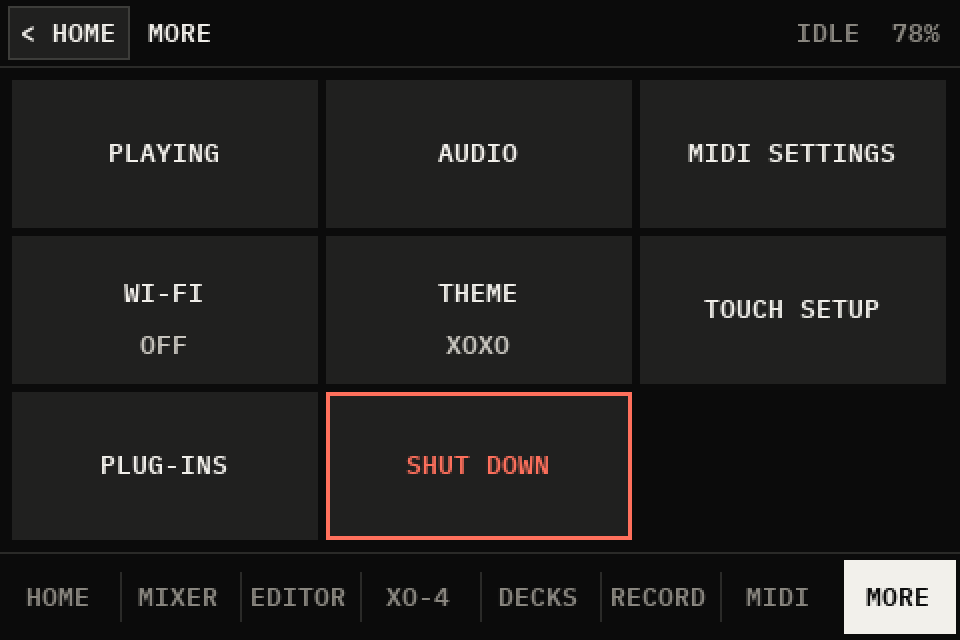
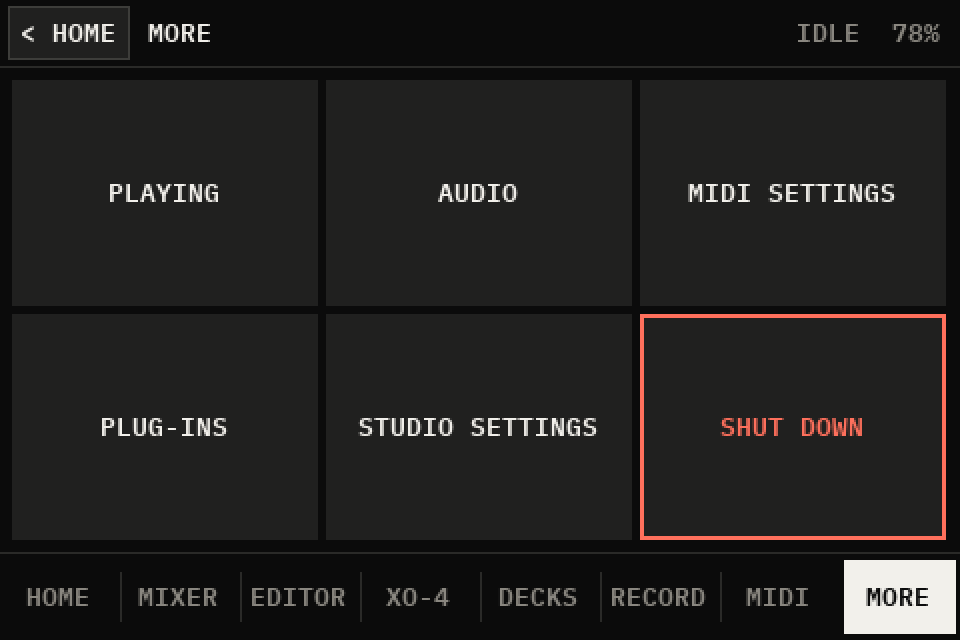
The Studio's MORE: STUDIO SETTINGS holds Wi-Fi, the theme, the touch setup and ABOUT
- deskui.py: MORE is PLAYING, AUDIO, MIDI SETTINGS, PLUG-INS, STUDIO SETTINGS
  and SHUT DOWN; STUDIO SETTINGS (a page of its own, two tiles a row) holds
  WI-FI, THEME, TOUCH SETUP and ABOUT. THEME and ABOUT go back to it.
  MORE's tiles drawn by one draw_tiles for both pages.
- deskabout.py: ABOUT's back to STUDIO SETTINGS.
- tests/test_desk.py: the theme reached through STUDIO SETTINGS, its back
  buttons; ABOUT opened from it.
- tools/studio_screens.py, docs/images: MORE redrawn, STUDIO SETTINGS added.
  (The README's words for it come in the next commit.)

Credits and licences: nothing new; XOXO Studio stays GPL-3.0.

Tested: on XOXOStudio (Pi 3 B+), 2026-11-03: STUDIO SETTINGS used on the
Studio's screen, its tiles and back buttons (Pat's report). PC: test_desk
55/55.

Not tested: TOUCH SETUP run through from its new place on the Studio.

diff --git a/fm1-bt-bridge/deskui.py b/fm1-bt-bridge/deskui.py
@@ -38,13 +38,14 @@ TABS = ("HOME", "MIX", "EDITOR", "XO4", "DECKS", "REC", "MIDI", "MORE")
 TAB_LABEL = {"MIX": "MIXER", "XO4": "XO-4", "REC": "RECORD"}   # what a tab says, if not its name
 FULL_TABS = ("EDITOR", "XO4", "DECKS", "REC", "PLUGIN")    # screens of their own: no tab bar under them (< HOME, top left)
 METER_TABS = ("METER", "REC")                   # tabs with live audio levels (the meters' reader runs)
-PARENT = {"METER": "MIX", "DAW": "MIDI", "THEME": "MORE", "PLUGINS": "MORE", "PLUGIN": "MORE", "ABOUT": "MORE"}   # pages opened from a tab: it stays lit under them
+PARENT = {"METER": "MIX", "DAW": "MIDI", "THEME": "MORE", "PLUGINS": "MORE", "PLUGIN": "MORE", "ABOUT": "MORE",
+          "SETTINGS": "MORE"}   # pages opened from a tab: it stays lit under them
 DAW_KEYS = [("<<", "rewind"), (">>", "forward"), ("STOP", "stop"), ("PLAY", "play"), ("REC", "record"),
             ("LOOP", "loop")]
-MORE = [("PLAYING", ("menu", "play")),
-        ("AUDIO", ("menu", "audio")), ("MIDI SETTINGS", ("menu", "midi")), ("WI-FI", ("wifi", None)),
-        ("THEME", ("theme", None)), ("TOUCH SETUP", ("calibrate", None)), ("PLUG-INS", ("plugins", None)),
-        ("ABOUT", ("about", None)), ("SHUT DOWN", ("off", None))]
+MORE = [("PLAYING", ("menu", "play")), ("AUDIO", ("menu", "audio")), ("MIDI SETTINGS", ("menu", "midi")),
+        ("PLUG-INS", ("plugins", None)), ("STUDIO SETTINGS", ("settings", None)), ("SHUT DOWN", ("off", None))]
+STUDIO_SETTINGS = [("WI-FI", ("wifi", None)), ("THEME", ("theme", None)), ("TOUCH SETUP", ("calibrate", None)),
+                   ("ABOUT", ("about", None))]     # MORE > STUDIO SETTINGS: the box's own settings
 HIDDEN_METERS = ("Tuner",)                      # meters the Studio leaves out (the Pocket keeps all eleven)
 
 
@@ -879,10 +880,19 @@ class DeskUI(DeskPages, DeskPads, DeskDecks, DeskXO4, DeskPlugins, DeskAbout):
     # ---- MORE: what opens the pocket box's screens
 
     def draw_more(self, img, d, now):
-        t = self.theme
         self.header(img, d, "MORE", self.status_right())
-        items = MORE
-        cols = 3                                   # tiles, three a row: everything on one screen, no scrolling
+        self.draw_tiles(img, d, MORE, 3)
+
+    def draw_settings(self, img, d, now):
+        """MORE > STUDIO SETTINGS: Wi-Fi, the theme, the touch setup, about"""
+        self.button(img, d, (4, 3, 84, HDR_H - 5), "< MORE", lambda: self.open_tab("MORE"), key="settings-back")
+        st.text(img, (96, 9), "STUDIO SETTINGS", self.theme.hi)
+        d.line((0, HDR_H - 1, W, HDR_H - 1), fill=self.theme.c[0], width=2)
+        self.draw_tiles(img, d, STUDIO_SETTINGS, 2)
+
+    def draw_tiles(self, img, d, items, cols):
+        """MORE's tiles (and STUDIO SETTINGS'): cols a row, everything on one screen, no scrolling"""
+        t = self.theme
         rows = (len(items) + cols - 1) // cols
         top, bottom = HDR_H + 4, H - TAB_H - 4
         tw, th = (W - 8) // cols, (bottom - top) // rows
@@ -912,7 +922,7 @@ class DeskUI(DeskPages, DeskPads, DeskDecks, DeskXO4, DeskPlugins, DeskAbout):
 
     def draw_theme(self, img, d, now):
         t = self.theme
-        self.button(img, d, (4, 3, 84, HDR_H - 5), "< MORE", lambda: self.open_tab("MORE"), key="theme-back")
+        self.button(img, d, (4, 3, 84, HDR_H - 5), "< BACK", lambda: self.open_tab("SETTINGS"), key="theme-back")
         st.text(img, (96, 9), "THEME", t.hi)
         d.line((0, HDR_H - 1, W, HDR_H - 1), fill=t.c[0], width=2)
         pick = self.theme_pick()
@@ -950,7 +960,10 @@ class DeskUI(DeskPages, DeskPads, DeskDecks, DeskXO4, DeskPlugins, DeskAbout):
         if kind == "theme":                        # the theme page: a swatch of each
             self.open_tab("THEME")
             return
-        if kind == "about":                        # MORE > ABOUT: the version, the QR codes (deskabout.py)
+        if kind == "settings":                     # MORE > STUDIO SETTINGS
+            self.open_tab("SETTINGS")
+            return
+        if kind == "about":                        # STUDIO SETTINGS > ABOUT: the version, the QR codes (deskabout.py)
             self.open_tab("ABOUT")
             return
         if kind == "plugins":                      # MORE > PLUG-INS (deskplugins.py)

diff --git a/tests/test_desk.py b/tests/test_desk.py
@@ -578,9 +578,14 @@ def test_touch_screens():
     assert not ui.classic and any(w[3] == "page-back" for w in ui.widgets)
     app.screen = "status"
     ui.render(now, force=True)
-    tab("MORE")                                                       # then THEME: its page, TOXIC tapped
-    ui.more_top = 5                                                    # scrolled to the end of MORE
+    tab("MORE")                                                       # then STUDIO SETTINGS > THEME: TOXIC tapped
     ui.render(now, force=True)
+    assert ("more", "THEME") not in {w[3] for w in ui.widgets}          # (in STUDIO SETTINGS now)
+    row = next(w for w in ui.widgets if w[3] == ("more", "STUDIO SETTINGS"))
+    tap(row[0][0] + 20, row[0][1] + 10)
+    assert ui.tab == "SETTINGS"
+    ui.render(now, force=True)
+    assert {("more", n) for n in ("WI-FI", "THEME", "TOUCH SETUP", "ABOUT")} <= {w[3] for w in ui.widgets}
     row = next(w for w in ui.widgets if w[3] == ("more", "THEME"))
     tap(row[0][0] + 20, row[0][1] + 10)
     assert ui.tab == "THEME"
@@ -596,6 +601,10 @@ def test_touch_screens():
     ui.render(now + 10, force=True)
     assert ui.theme.name == "KAWAII" and ui.theme.bg == xoxostyle.THEMES["KAWAII"][2]
     back = next(w for w in ui.widgets if w[3] == "theme-back")
+    tap(back[0][0] + 20, back[0][1] + 10)
+    assert ui.tab == "SETTINGS"                                        # back to STUDIO SETTINGS
+    ui.render(now, force=True)
+    back = next(w for w in ui.widgets if w[3] == "settings-back")
     tap(back[0][0] + 20, back[0][1] + 10)
     assert ui.tab == "MORE"
 
@@ -1319,7 +1328,7 @@ def test_about():
     ui.draw_qr = lambda img, d, box, url: (drawn.append(url), real_qr(img, d, box, url))
     try:
         deskabout.lan_address = lambda: "192.168.1.20"
-        ui.open_tab("MORE")
+        ui.open_tab("SETTINGS")
         ui.render(0.0, force=True)
         box = next(w[0] for w in ui.widgets if w[3] == ("more", "ABOUT"))
         ui.touch("down", box[0] + 4, box[1] + 4, 0.0)

diff --git a/fm1-bt-bridge/deskabout.py b/fm1-bt-bridge/deskabout.py
@@ -1,4 +1,4 @@
-"""MORE > ABOUT: the Studio's version, and three QR codes to scan with a phone: the Studio's code on GitHub, the
+"""MORE > STUDIO SETTINGS > ABOUT: the Studio's version, and three QR codes to scan with a phone: the Studio's code on GitHub, the
 XOXO Audio Labs website, and this Studio's web app (its address on the network now: the phone on the same Wi-Fi).
 Mixed into deskui.DeskUI. The codes are made by python3-qrcode (Raspberry Pi OS's package); without it, the
 addresses are written out instead."""
@@ -58,7 +58,7 @@ class DeskAbout:
 
     def draw_about(self, img, d, now):
         t = self.theme
-        self.button(img, d, (4, 3, 84, HDR_H - 5), "< MORE", lambda: self.open_tab("MORE"), key="about-back")
+        self.button(img, d, (4, 3, 84, HDR_H - 5), "< BACK", lambda: self.open_tab("SETTINGS"), key="about-back")
         st.text(img, (96, 9), "ABOUT", t.hi)
         version = f"XOXO STUDIO {deskboot.VERSION}"
         st.text(img, (W - 10 - st.text_size(version)[0], 9), version, t.c[3])

diff --git a/tools/studio_screens.py b/tools/studio_screens.py
@@ -196,6 +196,7 @@ def main():
         ("studio-editor", editor),
         ("studio-midi", lambda app, ui: ui.open_tab("MIDI")),
         ("studio-more", lambda app, ui: ui.open_tab("MORE")),
+        ("studio-settings", lambda app, ui: ui.open_tab("SETTINGS")),
         ("studio-about", lambda app, ui: ui.open_tab("ABOUT")),
     ]
     deskabout.lan_address = lambda: "192.168.1.20"    # (a made-up address, not this computer's)
